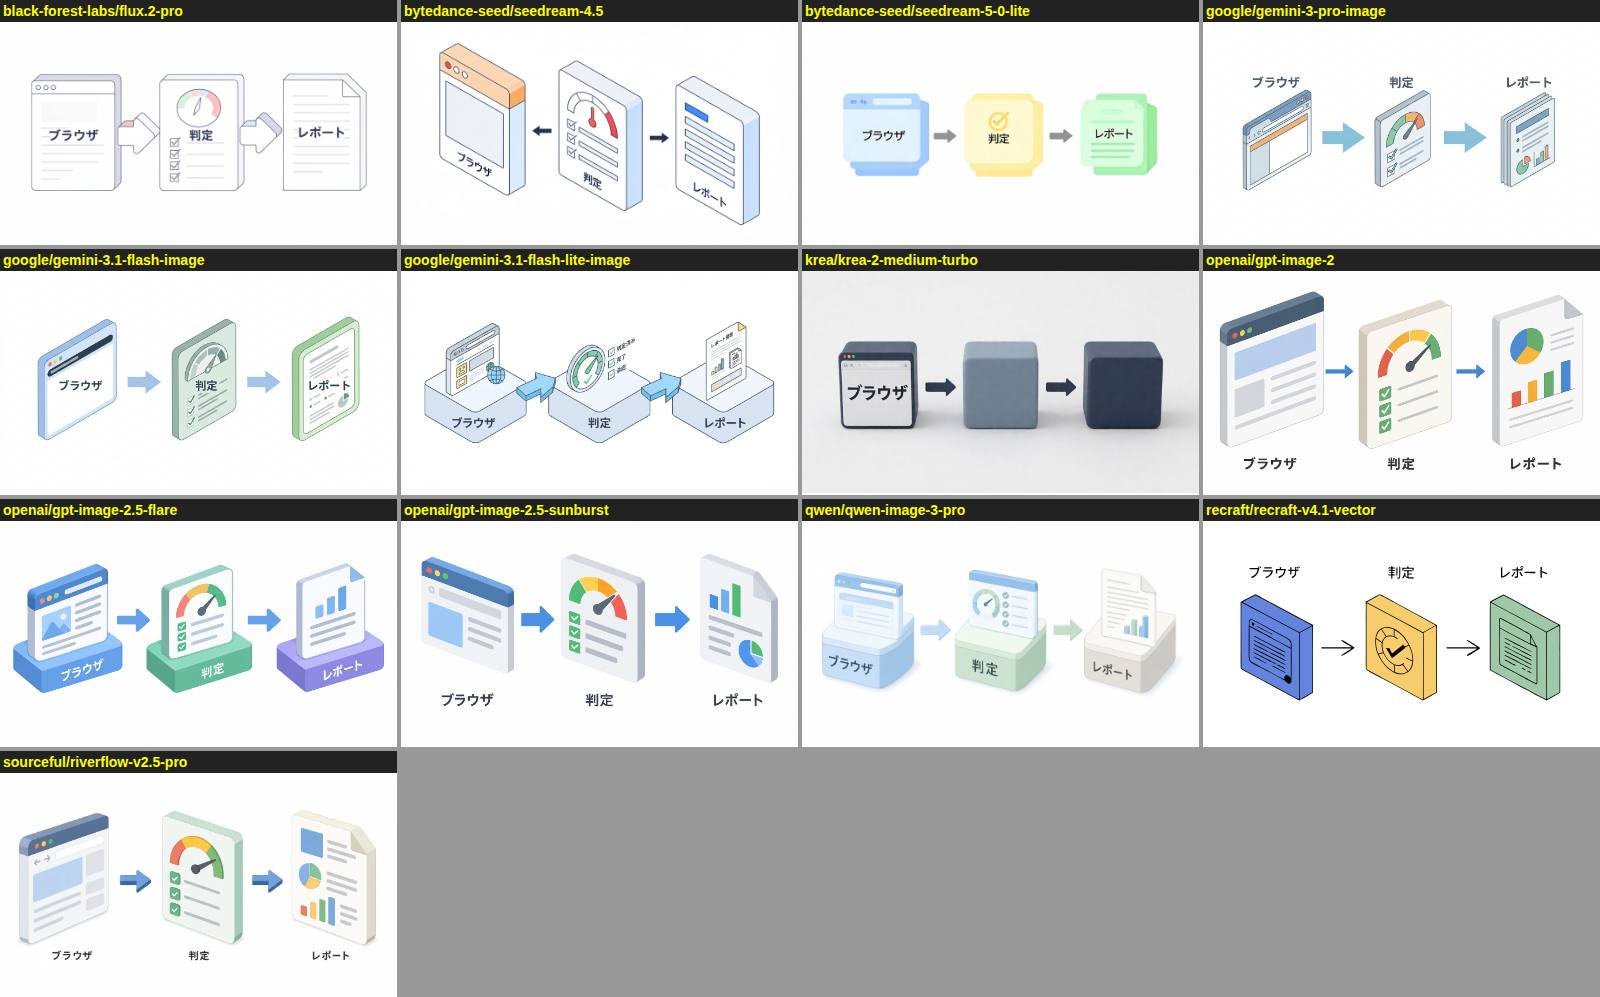
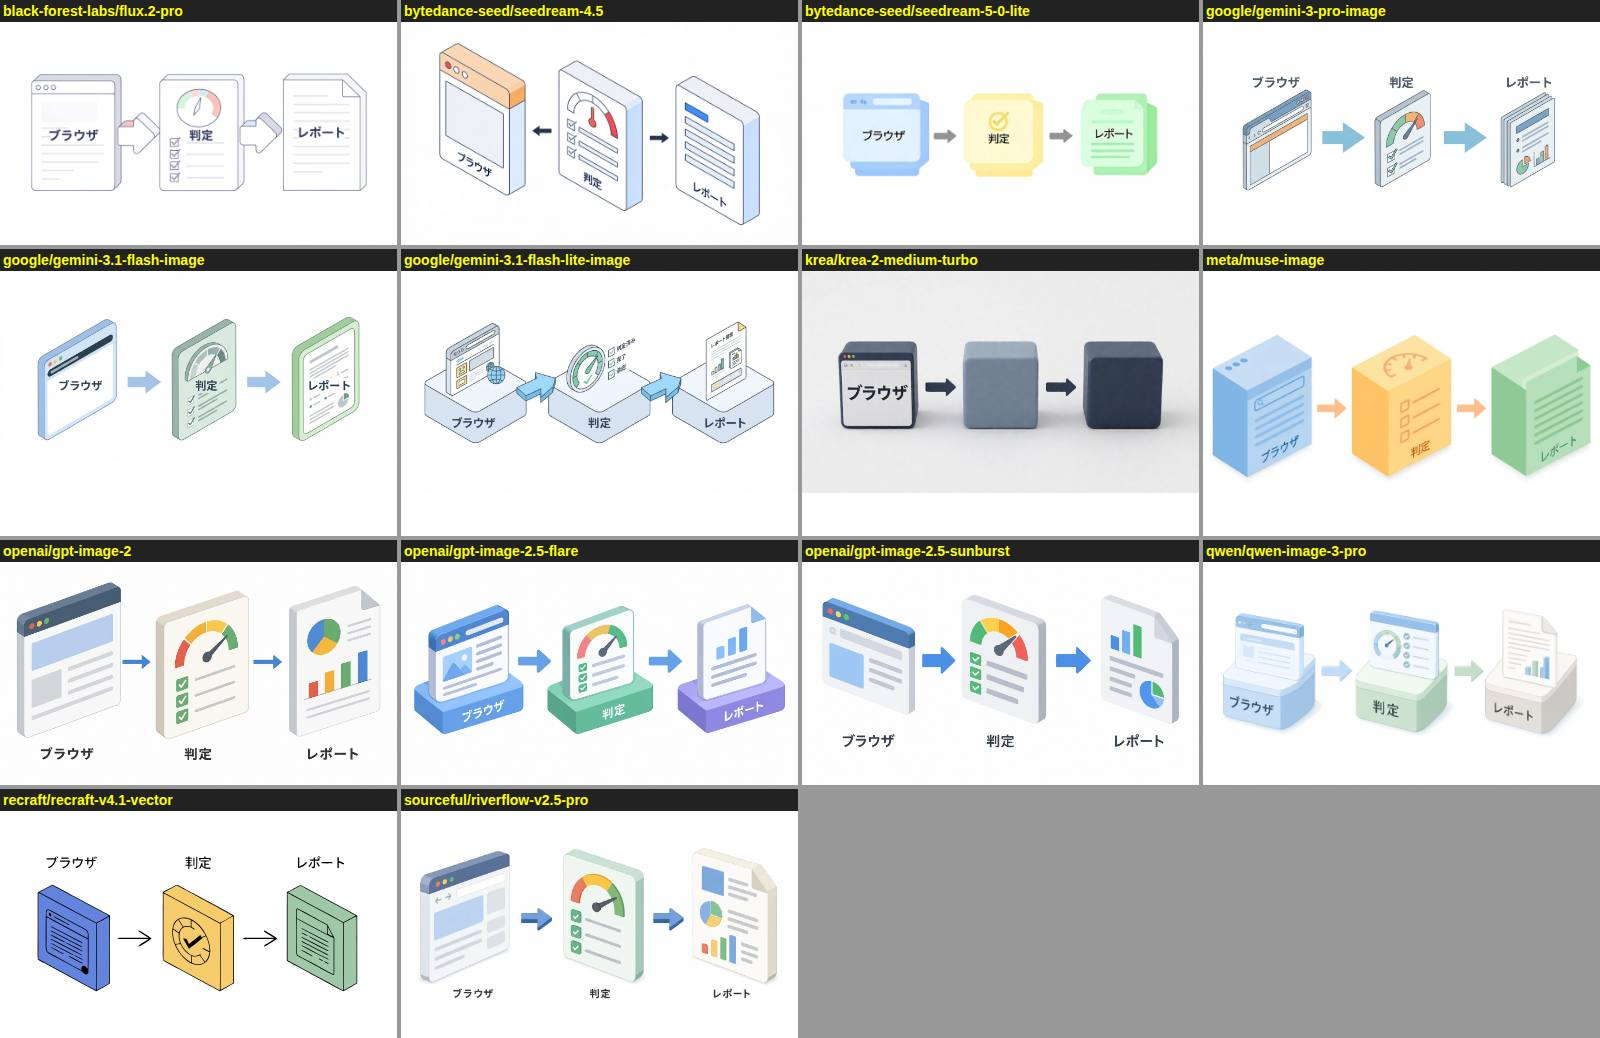
docs: add meta/muse-image to the image model bench
Run after the account's 18+ confirmation: 3/3 on the three briefs at a flat
$0.010, 21-36s.

Claude-Session: https://claude.ai/code/session_01DKddnQLd6gtqXfKLKRGpS5

diff --git a/docs/reports/2026-09-30-image-gen-model-bench.md b/docs/reports/2026-09-30-image-gen-model-bench.md
@@ -6,8 +6,9 @@ imagegen or, when `OPENROUTER_API_KEY` is set, with an OpenRouter image model. C
 image generation of its own; it can only write the code that draws a figure. This round picks the
 OpenRouter model.
 
-**Result: `openai/gpt-image-2.5-flare`.** It scored 3/3 on our three figure briefs, at the lowest
-price measured ($0.009–0.015 an image) and 11–15s per image. Two other OpenAI models, `gpt-image-2`
+**Result: `openai/gpt-image-2.5-flare`, with `meta/muse-image` beside it.** Flare scored 3/3 on our
+three figure briefs at the lowest price measured ($0.009–0.015 an image) and 11–15s per image.
+Muse also scored 3/3 at a flat $0.010, taking 21–36s, and drew the most literal zoom of the round. Two other OpenAI models, `gpt-image-2`
 and `gpt-image-2.5-sunburst`, also scored 3/3 at the same price, 4–7s slower. `gemini-3-pro-image`
 and `riverflow-v2.5-pro` scored 3/3 at nine times the price, and Riverflow takes over a minute.
 `seedream-4.5` is the third most used image model on OpenRouter and scored 0/3.
@@ -19,7 +20,7 @@ and `riverflow-v2.5-pro` scored 3/3 at nine times the price, and Riverflow takes
    spatial relations, mirrors, negation and editing. All 16 pages were fetched and summed per model
    (the table below). They measure whether a model follows a prompt, not whether its picture works
    as a technical figure.
-2. **Our three briefs**, run on 13 models through `POST /api/v1/images` with `aspect_ratio: 16:9`.
+2. **Our three briefs**, run on 14 models through `POST /api/v1/images` with `aspect_ratio: 16:9`.
    The popularity order comes from OpenRouter's image-model collection, ranked by 7-day tokens.
 
 ## OpenRouter benchmarks (summed over all 16 pages)
@@ -64,6 +65,7 @@ something wrong.
 | Model | zoom | vrt | ja | score | $/image | time |
 |---|---|---|---|---|---|---|
 | openai/gpt-image-2.5-flare | ✓ | ✓ | ✓ | 3 | 0.009–0.015 | 11–15s |
+| meta/muse-image | ✓ | ✓ | ✓ | 3 | 0.010 | 21–36s |
 | openai/gpt-image-2 | ✓ | ✓ | ✓ | 3 | 0.009–0.015 | 15–22s |
 | openai/gpt-image-2.5-sunburst | ✓ | ✓ | ✓ | 3 | 0.009–0.015 | 17–21s |
 | google/gemini-3-pro-image | ✓ | ✓ | ✓ | 3 | 0.135 | 17–22s |
@@ -77,8 +79,8 @@ something wrong.
 | krea/krea-2-medium-turbo | △ zoom shows more | ✗ no move | ✗ one label of three | 0.5 | 0.015 | 18–19s |
 | bytedance-seed/seedream-4.5 | ✗ zoom empty | ✗ added a photo, no move | ✗ first arrow reversed | 0 | 0.040 | 11–13s |
 
-`meta/muse-image` refused to run until the account confirms 18+ in OpenRouter's settings, so it is
-not in the table. The whole round cost $2.07.
+`meta/muse-image` refused to run (403) until the account confirmed 18+ at
+`openrouter.ai/settings/preferences`, so it was run after the other 13. The whole round cost $2.10.
 
 Contact sheets (each tile is labelled with its model):
 
@@ -89,7 +91,7 @@ Contact sheets (each tile is labelled with its model):
 ## What the briefs showed
 
 - **Nearly every model gets the text right. What it gets wrong is the relationship the figure
-  claims.** 12 of 13 models wrote the caption exactly, and 12 of 13 wrote all three Japanese
+  claims.** 13 of 14 models wrote the caption exactly, and 13 of 14 wrote all three Japanese
   labels. Five models, Nano Banana 2 among them, drew a `current` panel identical to `baseline`,
   then marked a move in the `diff` panel. Their figures contradict themselves. Check an
   illustration for what it asserts, not only for what it says.
@@ -106,11 +108,11 @@ Contact sheets (each tile is labelled with its model):
 | Need | Model |
 |---|---|
 | Default illustration or concept figure | `openai/gpt-image-2.5-flare` |
-| Second opinion, same price | `openai/gpt-image-2` / `openai/gpt-image-2.5-sunburst` |
+| Second opinion, same price | `meta/muse-image` (needs the 18+ setting), `openai/gpt-image-2` / `openai/gpt-image-2.5-sunburst` |
 | Editable output (SVG) | `recraft/recraft-v4.1-vector` — check the relationships it draws |
 | Fast iteration (~10s) | `google/gemini-3.1-flash-image`, 4–7x the price, weaker on spatial logic |
 | Avoid for figures | `bytedance-seed/seedream-4.5`, `krea/krea-2-medium-turbo`, `google/gemini-3.1-flash-lite-image` |
 
 Figures that state structure (dependencies, flows, states, sequences, measurements) are still
 drawn with code: mermaid, D2 or vlmkit-anim. Only code-drawn figures can be checked against the
-code, and a generated image in this round got a spatial relation wrong 5 times in 13.
+code, and a generated image in this round got a spatial relation wrong 5 times in 14.
